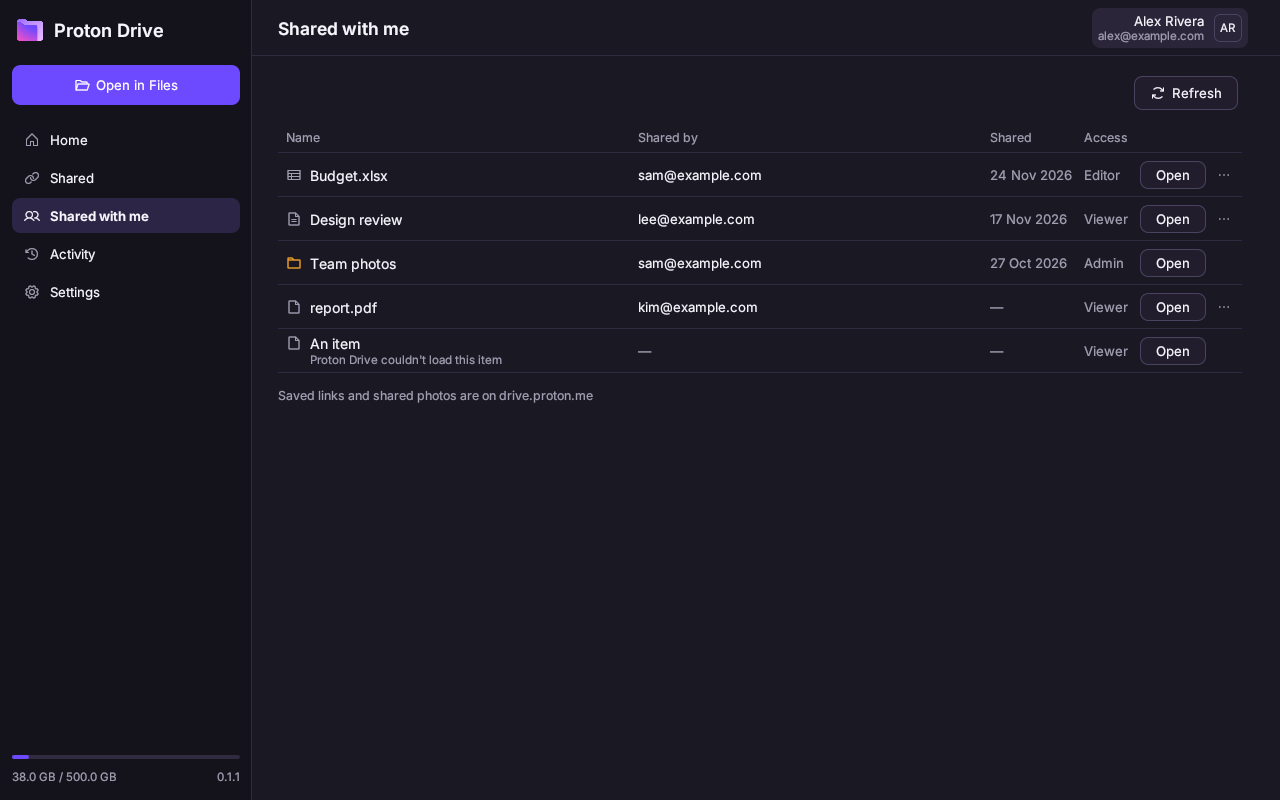
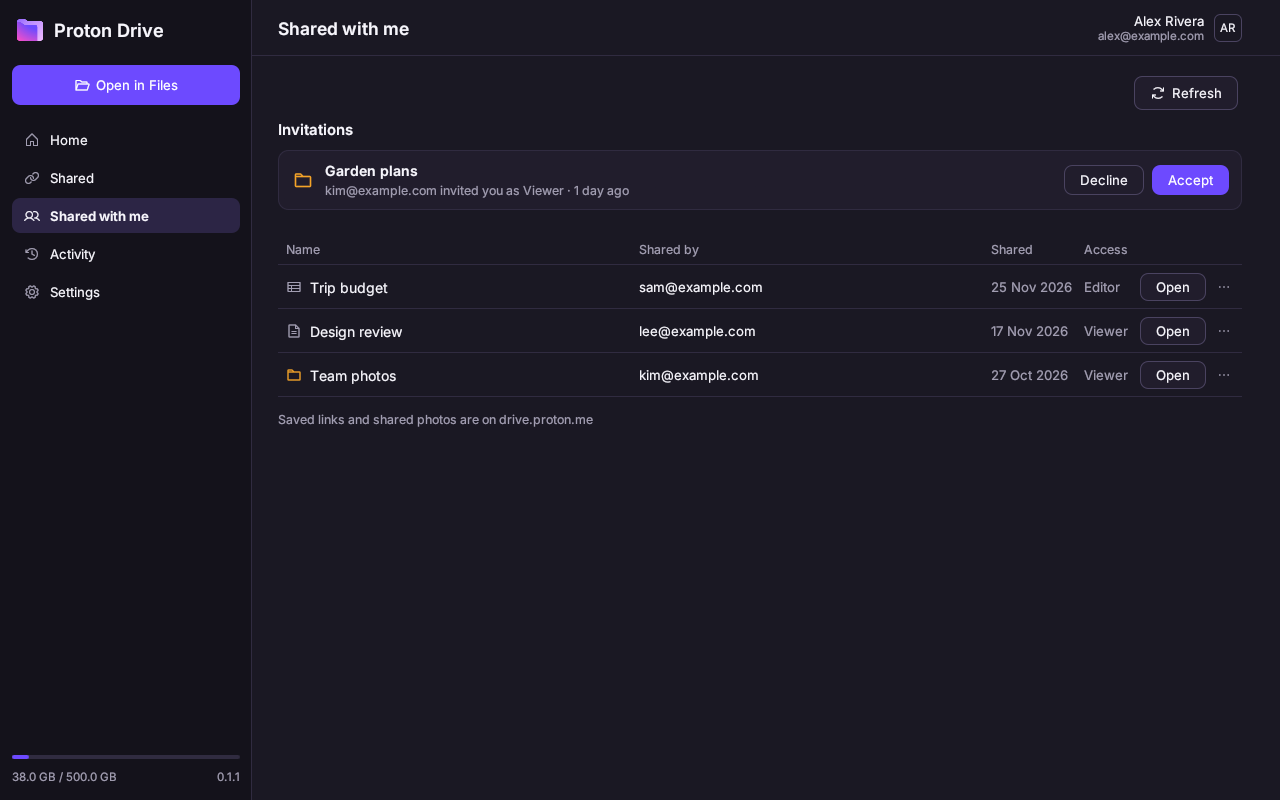
docs: the README's sharing screenshots show a healthy account matching Activity
Adds --fake-shared readme and --fake-shared-with-me readme (screenshot-only, with a test).

Refs #520

Changed region(s): [[0.2188, 0.1562, 0.5938, 0.5312], [0.75, 0.1562, 0.9688, 0.5]]

diff --git a/native-gui/src/main.rs b/native-gui/src/main.rs
@@ -5081,9 +5081,9 @@ OPTIONS:
   --fake-cut-short <S>  with --screenshot: list files held because the disk guard cut them short (one | many)
   --fake-disk-full      with --screenshot: show Home's notice that the computer's disk is almost full
   --fake-shared <S>     with --screenshot: show the Shared section (--tab shared) as S
-                        (list | empty | offline | loading | refreshing)
+                        (list | readme | empty | offline | loading | refreshing)
   --fake-shared-with-me <S>  with --screenshot: show the Shared with me page (--tab shared-with-me) as S
-                        (list | invitations | empty | offline | loading | refreshing)
+                        (list | readme | invitations | empty | offline | loading | refreshing)
   --show-unofficial-notice  with --screenshot: show the first-run unofficial-app notice
   --size <WxH>          window size for --screenshot (default 1440x900, min 840x540)
   --zoom <F>            with --screenshot: render at zoom factor F (0.5 to 3, e.g. 1.2), as Ctrl+= would
@@ -5334,7 +5334,7 @@ fn main() -> eframe::Result {
             if shared::SharedPage::default().fake(&state, home::now_ms()) {
                 Some(state)
             } else {
-                eprintln!("protondrive-gui: ignoring unknown --fake-shared {state:?} (list | empty | offline | loading | refreshing)");
+                eprintln!("protondrive-gui: ignoring unknown --fake-shared {state:?} (list | readme | empty | offline | loading | refreshing)");
                 None
             }
         }
@@ -5346,7 +5346,7 @@ fn main() -> eframe::Result {
             if shared_with_me::SharedWithMePage::default().fake(&state, home::now_ms()) {
                 Some(state)
             } else {
-                eprintln!("protondrive-gui: ignoring unknown --fake-shared-with-me {state:?} (list | invitations | empty | offline | loading | refreshing)");
+                eprintln!("protondrive-gui: ignoring unknown --fake-shared-with-me {state:?} (list | readme | invitations | empty | offline | loading | refreshing)");
                 None
             }
         }

diff --git a/native-gui/src/shared_with_me.rs b/native-gui/src/shared_with_me.rs
@@ -381,6 +381,15 @@ pub fn fake_shared_with_me(state: &str, now_ms: i64) -> Option<Result<Listing, S
         }
         "empty" => Ok(Listing::default()),
         "offline" => Err(share::DAEMON_UNREACHABLE.to_string()),
+        // The README's page: a healthy account, with the items Activity names (no unreadable row)
+        "readme" => Ok(Listing {
+            invitations: vec![invitation("Garden plans", Some("Garden plans"), Kind::Folder, Some("kim@example.com"), true, Role::Viewer)],
+            items: vec![
+                item(Some("Trip budget"), Kind::Sheet, Some("sam@example.com"), Some(1), Role::Editor, true),
+                item(Some("Design review"), Kind::Doc, Some("lee@example.com"), Some(9), Role::Viewer, true),
+                item(Some("Team photos"), Kind::Folder, Some("kim@example.com"), Some(30), Role::Viewer, true),
+            ],
+        }),
         "invitations" => Ok(Listing {
             invitations,
             items: vec![item(Some("Budget.xlsx"), Kind::Sheet, Some("sam@example.com"), Some(2), Role::Editor, true)],
@@ -392,6 +401,20 @@ pub fn fake_shared_with_me(state: &str, now_ms: i64) -> Option<Result<Listing, S
 #[cfg(test)]
 mod tests {
     use super::*;
+
+    #[test]
+    fn the_readme_fake_is_healthy_and_fictional() {
+        let listing = fake_shared_with_me("readme", NOW).unwrap().unwrap();
+        assert!(!listing.items.is_empty());
+        for i in &listing.items {
+            assert!(i.unreadable.is_none() && i.name.is_some(), "an unreadable row");
+            assert!(i.shared_by.as_deref().is_some_and(|a| a.ends_with("@example.com")));
+        }
+        for inv in &listing.invitations {
+            assert!(inv.name.is_some() && inv.from_verified);
+            assert!(inv.from.as_deref().is_some_and(|a| a.ends_with("@example.com")));
+        }
+    }
 
     const NOW: i64 = 1_793_750_400_000;
 

diff --git a/native-gui/src/shared.rs b/native-gui/src/shared.rs
@@ -221,6 +221,13 @@ pub fn fake_shared(state: &str, now_ms: i64) -> Option<Result<Vec<SharedItem>, S
                 catching_up,
             ])
         }
+        // The README's page: a healthy account, with the items Activity names (no expired link, warning or unreadable row)
+        "readme" => Ok(vec![
+            item("Lease agreement.pdf", ItemKind::File, Some("Documents/Lease agreement.pdf"), Place::MyFiles, Some(link(true, Some(now_ms + 14 * DAY))), 0),
+            item("Lisbon", ItemKind::Folder, Some("Photos/Lisbon"), Place::MyFiles, None, 2),
+            item("Budget 2026", ItemKind::File, Some("Work/Budget 2026.protonsheet"), Place::MyFiles, None, 1),
+            item("Garden plans.pdf", ItemKind::File, Some("Projects/Shed/Garden plans.pdf"), Place::MyFiles, Some(link(false, None)), 0),
+        ]),
         "empty" => Ok(vec![]),
         "offline" => Err(share::DAEMON_UNREACHABLE.to_string()),
         _ => return None,
@@ -230,6 +237,20 @@ pub fn fake_shared(state: &str, now_ms: i64) -> Option<Result<Vec<SharedItem>, S
 #[cfg(test)]
 mod tests {
     use super::*;
+
+    #[test]
+    fn the_readme_fake_is_healthy_and_fictional() {
+        let now = 1_793_750_400_000;
+        let items = fake_shared("readme", now).unwrap().unwrap();
+        assert!(!items.is_empty());
+        for i in &items {
+            assert!(i.unreadable.is_none(), "{} is unreadable", i.name);
+            assert_eq!(i.place, Place::MyFiles);
+            if let Some(l) = &i.link {
+                assert!(l.expires_at.is_none_or(|t| t > now), "{}'s link has expired", i.name);
+            }
+        }
+    }
 
     /// 2026-11-04 at 00:00 UTC, in epoch ms
     const NOV_4_UTC: i64 = 1_793_750_400_000;
